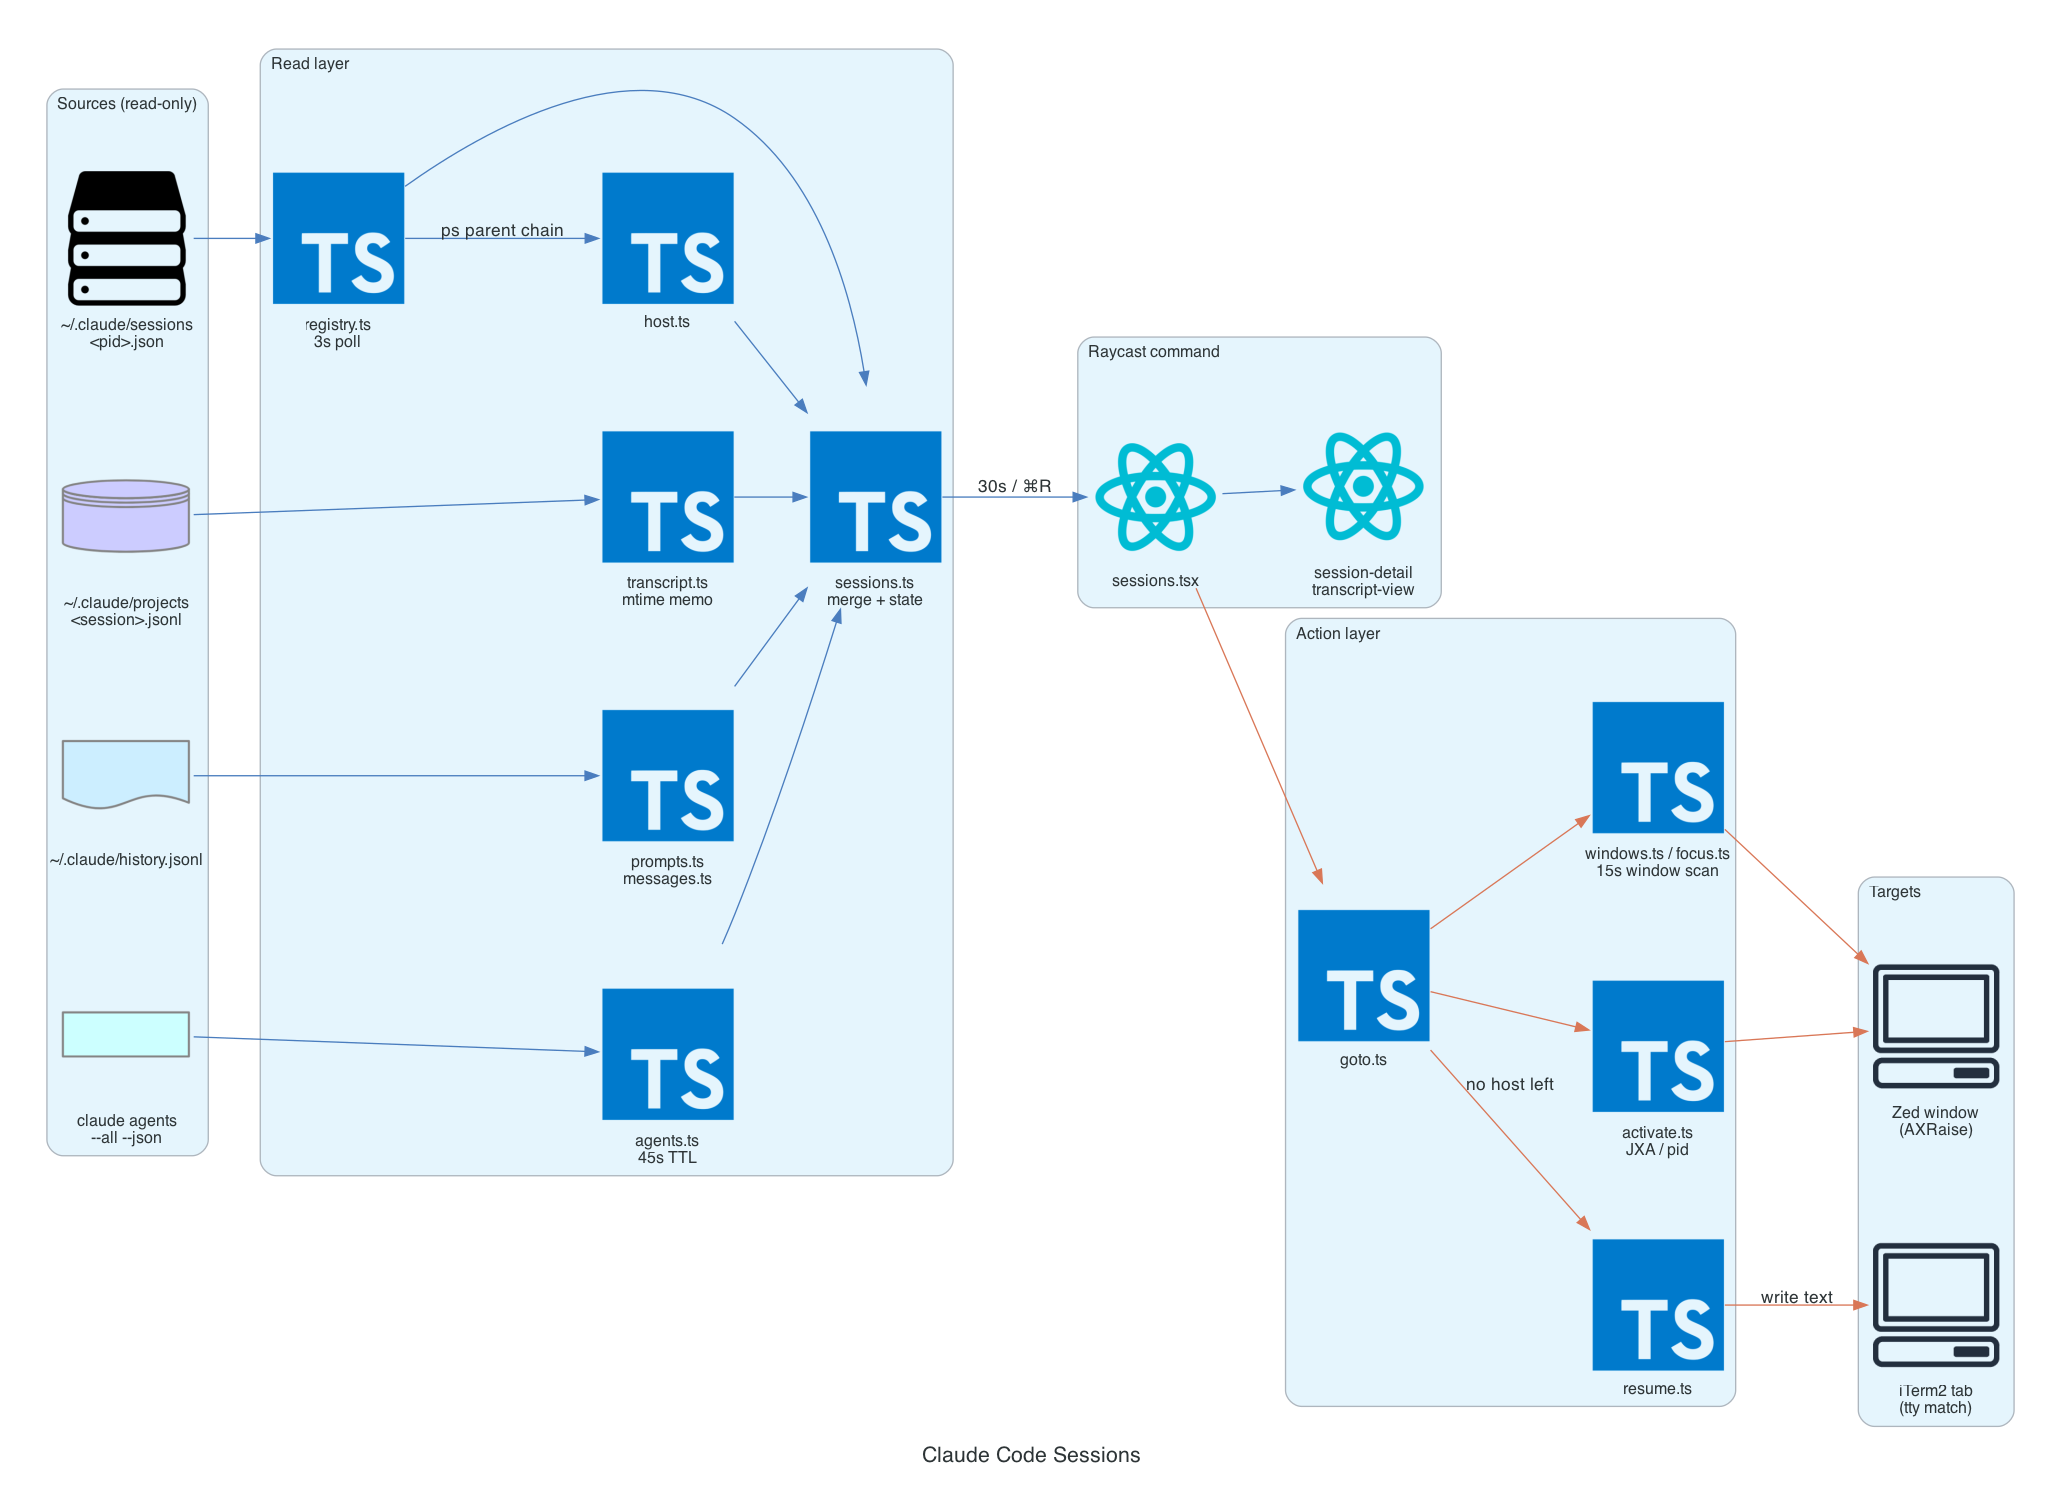
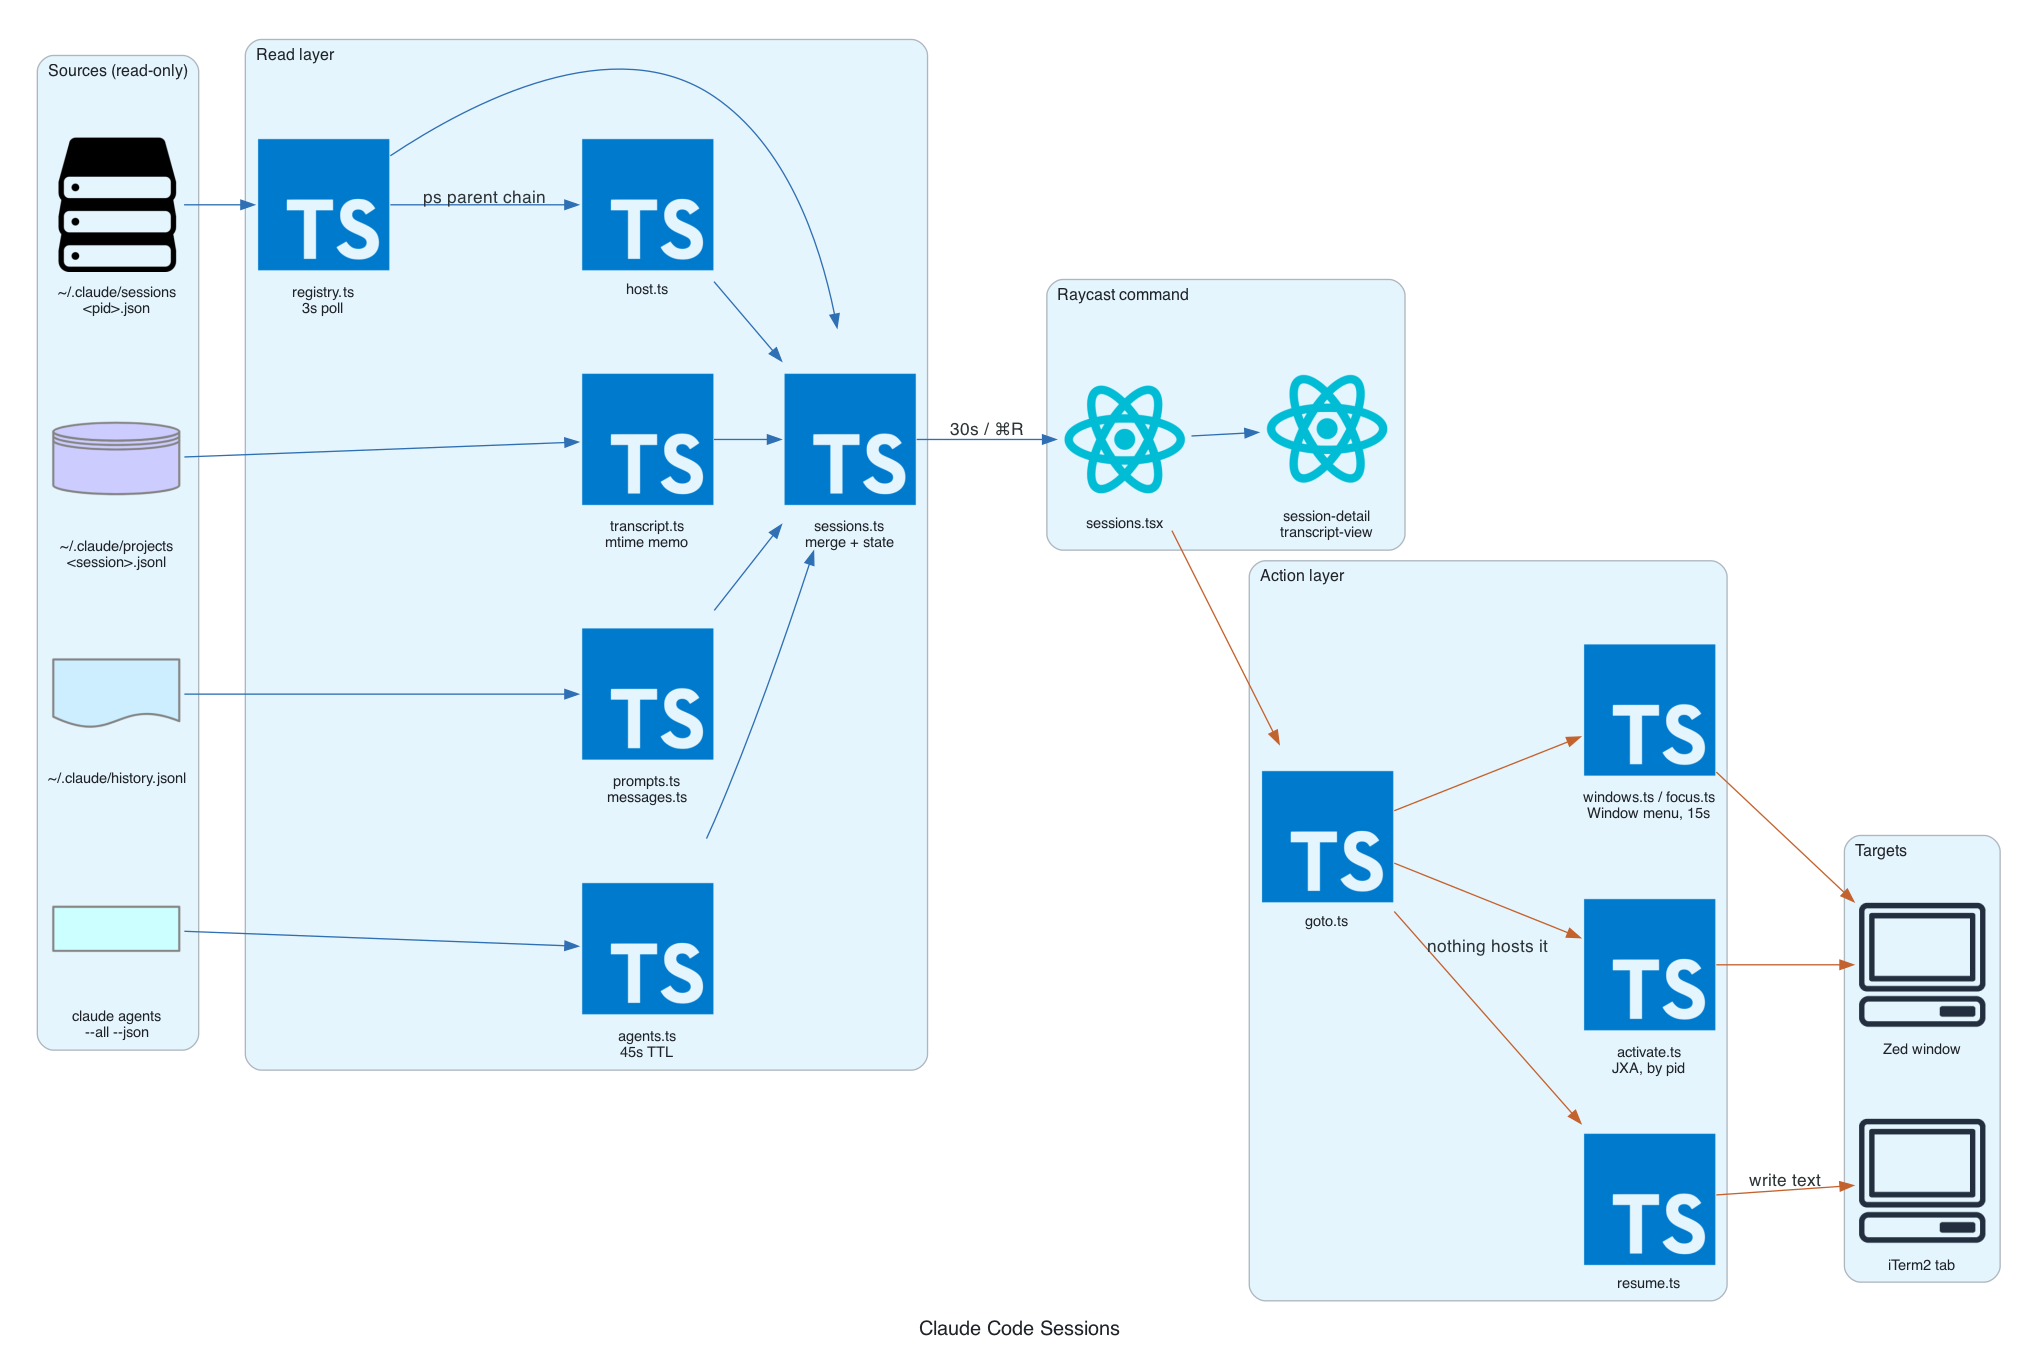
docs: split the flow diagram in two and make both readable on dark themes
The single decision chart was mostly whitespace with labels detached from their nodes, and dark ink
on a transparent background disappeared in GitHub's dark theme.

diff --git a/docs/render_diagrams.py b/docs/render_diagrams.py
@@ -2,7 +2,7 @@
 
 Run from the repository root:
 
-    uv run --with diagrams --python 3.12 docs/diagrams.py
+    uv run --with diagrams --python 3.12 docs/render_diagrams.py
 
 Requires Graphviz (`brew install graphviz`).
 """
@@ -14,18 +14,35 @@ from diagrams.programming.flowchart import Action, Database, Decision, Document,
 from diagrams.programming.framework import React
 from diagrams.programming.language import Typescript
 
-GRAPH_ATTR = {
-    "fontsize": "16",
-    "bgcolor": "transparent",
-    "pad": "0.4",
-    "splines": "spline",
-}
-NODE_ATTR = {"fontsize": "12"}
-EDGE_ATTR = {"fontsize": "11"}
+INK = "#1F2328"
+BLUE = "#2F6FB3"
+ORANGE = "#C4622D"
+GREY = "#8B949E"
 
-READ = Edge(color="#4A7DBE")
-WRITE = Edge(color="#D97757")
-POLL = Edge(color="#4A7DBE", style="dashed")
+# A solid background: GitHub shows these images unchanged, and dark ink on a transparent
+# background is unreadable in dark mode.
+GRAPH_ATTR = {
+    "bgcolor": "#FFFFFF",
+    "fontcolor": INK,
+    "fontname": "Helvetica",
+    "fontsize": "15",
+    "pad": "0.3",
+    "nodesep": "0.35",
+    "ranksep": "0.7",
+}
+NODE_ATTR = {"fontcolor": INK, "fontname": "Helvetica", "fontsize": "11"}
+EDGE_ATTR = {"fontcolor": INK, "fontname": "Helvetica", "fontsize": "10"}
+
+READ = Edge(color=BLUE)
+WRITE = Edge(color=ORANGE)
+
+
+def yes(label: str = "yes") -> Edge:
+    return Edge(label=label, color=BLUE, fontcolor=INK)
+
+
+def no(label: str = "no") -> Edge:
+    return Edge(label=label, color=ORANGE, fontcolor=INK)
 
 
 def architecture() -> None:
@@ -34,7 +51,7 @@ def architecture() -> None:
         filename="docs/architecture",
         show=False,
         direction="LR",
-        graph_attr=GRAPH_ATTR,
+        graph_attr={**GRAPH_ATTR, "splines": "spline"},
         node_attr=NODE_ATTR,
         edge_attr=EDGE_ATTR,
     ):
@@ -58,84 +75,104 @@ def architecture() -> None:
 
         with Cluster("Action layer"):
             goto = Typescript("goto.ts")
-            windows = Typescript("windows.ts / focus.ts\n15s window scan")
-            activate = Typescript("activate.ts\nJXA / pid")
+            windows = Typescript("windows.ts / focus.ts\nWindow menu, 15s")
+            activate = Typescript("activate.ts\nJXA, by pid")
             resume = Typescript("resume.ts")
 
         with Cluster("Targets"):
-            iterm = Client("iTerm2 tab\n(tty match)")
-            editor = Client("Zed window\n(AXRaise)")
+            iterm = Client("iTerm2 tab")
+            editor = Client("Zed window")
 
         registry_file >> READ >> registry
         cli >> READ >> agents
         transcripts >> READ >> transcript
         prompt_log >> READ >> prompts
-        registry >> Edge(color="#4A7DBE", label="ps parent chain") >> host
+        registry >> Edge(color=BLUE, label="ps parent chain") >> host
 
-        agents >> READ >> merge
-        registry >> READ >> merge
-        transcript >> READ >> merge
-        prompts >> READ >> merge
-        host >> READ >> merge
+        for reader in (registry, agents, transcript, prompts, host):
+            reader >> READ >> merge
 
-        merge >> Edge(color="#4A7DBE", label="30s / ⌘R") >> list_view
+        merge >> Edge(color=BLUE, label="30s / ⌘R") >> list_view
         list_view >> READ >> detail
         list_view >> WRITE >> goto
+
         goto >> WRITE >> windows
         goto >> WRITE >> activate
-        goto >> Edge(color="#D97757", label="no host left") >> resume
+        goto >> Edge(color=ORANGE, label="nothing hosts it") >> resume
 
         windows >> WRITE >> editor
         activate >> WRITE >> editor
-        resume >> Edge(color="#D97757", label="write text") >> iterm
+        resume >> Edge(color=ORANGE, label="write text") >> iterm
 
 
-def go_to_session() -> None:
-    """Mirrors goToSession() in src/lib/goto.ts and the resume path in session-actions.tsx."""
+def reaching_a_live_session() -> None:
+    """↩ on a row whose process is alive. See goToSession() in src/lib/goto.ts."""
     with Diagram(
-        "Go to Session",
-        filename="docs/go-to-session",
+        "↩ · reaching a live session",
+        filename="docs/flow-live",
         show=False,
         direction="LR",
-        graph_attr={**GRAPH_ATTR, "ranksep": "1.0", "nodesep": "0.5"},
+        graph_attr=GRAPH_ATTR,
         node_attr=NODE_ATTR,
         edge_attr=EDGE_ATTR,
     ):
-        start = StartEnd("↩ on a row")
-        is_background = Decision("background\nagent?")
-        is_live = Decision("live\nprocess?")
-        window_gone = Decision("editor window\ngone?")
-        host_kind = Decision("host kind?")
-        has_stale = Decision("stale process\nholds it?")
+        start = StartEnd("live session")
+        host_kind = Decision("what hosts it?")
+        activate = Action("activate the host pid\n(never launches)")
 
-        copy_attach = Action("copy\nclaude attach <id>")
-        tab = Action("select the tab\nwhose tty matches")
-        raise_window = Action("AXRaise\nthat window")
-        activate = Action("activate host pid\n(never launches)")
-        sigterm = Action("SIGTERM,\nthen resume")
-        resume = Action("resume in iTerm2 tabs\n(⌘⇧↩ for the whole project)")
+        with Cluster("scriptable terminal"):
+            tab = Action("select the tab\nwhose tty matches")
 
-        start >> is_background
-        is_background >> Edge(label="yes", color="#D97757") >> copy_attach
-        is_background >> Edge(label="no", color="#4A7DBE") >> is_live
+        with Cluster("editor"):
+            window = Decision("a window or workspace\nholds this directory?")
+            switch = Action("switch to it via\nthe Window menu")
 
-        is_live >> Edge(label="no", color="#D97757") >> resume
-        is_live >> Edge(label="yes", color="#4A7DBE") >> window_gone
+        start >> Edge(color=BLUE) >> host_kind
+        host_kind >> Edge(label="iTerm2 / Terminal", color=BLUE, fontcolor=INK) >> tab
+        host_kind >> Edge(label="Zed / VS Code", color=BLUE, fontcolor=INK) >> window
+        host_kind >> Edge(label="anything else", color=GREY, fontcolor=INK) >> activate
+        window >> yes() >> switch
+        window >> no() >> activate
 
-        window_gone >> Edge(label="yes", color="#D97757") >> has_stale
-        window_gone >> Edge(label="no", color="#4A7DBE") >> host_kind
 
-        nothing = StartEnd("nothing happens")
-        has_stale >> Edge(label="confirm", color="#D97757") >> sigterm
-        has_stale >> Edge(label="cancel", color="#9AA0A6") >> nothing
-        sigterm >> WRITE >> resume
+def resuming_a_session() -> None:
+    """↩ on a row nothing can reach. See the resume path in components/session-actions.tsx."""
+    with Diagram(
+        "↩ · nothing hosts it",
+        filename="docs/flow-resume",
+        show=False,
+        direction="LR",
+        graph_attr=GRAPH_ATTR,
+        node_attr=NODE_ATTR,
+        edge_attr=EDGE_ATTR,
+    ):
+        resume = Action("claude --resume in iTerm2\n(⌘⇧↩ for every session\nof the project)")
 
-        host_kind >> Edge(label="iTerm2 / Terminal", color="#4A7DBE") >> tab
-        host_kind >> Edge(label="editor: window\nshows the cwd", color="#4A7DBE") >> raise_window
-        host_kind >> Edge(label="editor: no match,\nor other app", color="#4A7DBE") >> activate
+        with Cluster("history row"):
+            history = StartEnd("no process,\nonly a transcript")
+
+        with Cluster("window gone row"):
+            gone = StartEnd("process alive,\nnowhere to jump")
+            stale = Decision("quit the process\nholding it?")
+            sigterm = Action("SIGTERM first:\none writer\nper transcript")
+            nothing = StartEnd("nothing happens")
+
+        with Cluster("background agent row"):
+            background = StartEnd("claude --bg job")
+            attach = Action("copy\nclaude attach <id>")
+
+        history >> Edge(color=ORANGE) >> resume
+
+        gone >> Edge(color=ORANGE) >> stale
+        stale >> yes("confirm") >> sigterm
+        stale >> Edge(label="cancel", color=GREY, fontcolor=INK) >> nothing
+        sigterm >> Edge(color=ORANGE) >> resume
+
+        background >> Edge(color=GREY) >> attach
 
 
 if __name__ == "__main__":
     architecture()
-    go_to_session()
-    print("wrote docs/architecture.png and docs/go-to-session.png")
+    reaching_a_live_session()
+    resuming_a_session()
+    print("wrote docs/architecture.png, docs/flow-live.png, docs/flow-resume.png")

diff --git a/README.md b/README.md
@@ -67,7 +67,7 @@ then does the most precise thing available:
 | Anything else (Warp, Ghostty, …) | Activates the exact hosting process. Any app bundle in the parent chain counts, so an unlisted terminal still works. |
 | Nothing (history, or window gone) | Resumes in the terminal application: one iTerm2 window with a tab per session. |
 
-![Go to Session](docs/go-to-session.png)
+![Reaching a live session](docs/flow-live.png)
 
 Activation goes through `NSRunningApplication` (JXA), not `tell application "X" to activate`: it targets
 the host **pid**, so it never launches an app that has exited, tells two instances of one bundle apart, and
@@ -107,6 +107,8 @@ that follows lands in whatever has focus. Zed exposes no scripting API, so the t
 Terminals are scriptable, so resuming uses them directly: iTerm2 gets `create tab with default profile` plus
 `write text` per session, Terminal.app gets one `do script` window per session. No keystrokes, no layout
 dependency, and several sessions can come back at once.
+
+![Resuming a session](docs/flow-resume.png)
 
 ## Layout
 
